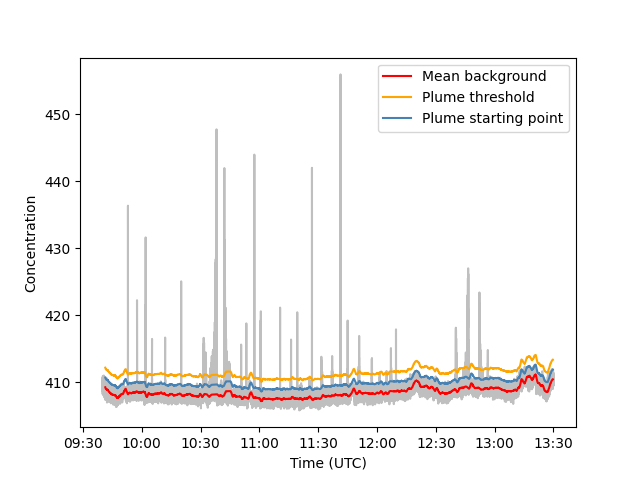
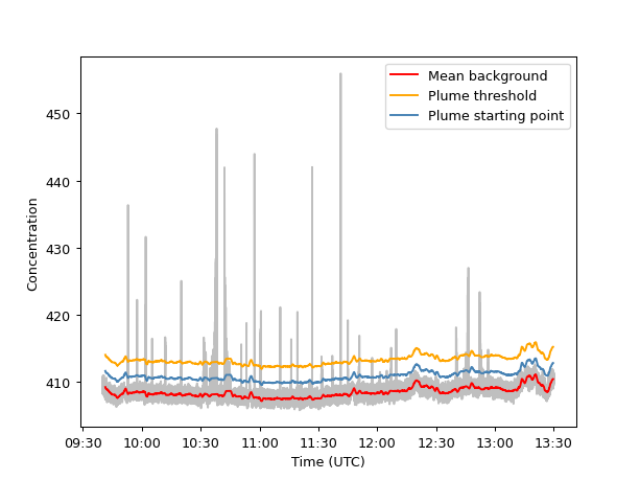
fix: corrected how the standard deviation is calculated (#12)
NB: this only affects the soon-to-be deprecated rolling window
background estimation method, and brings it into line with the R
implementation.

The wavelet method is generally considered the gold standard.

diff --git a/acruisepy/acruisepy/peakid.py b/acruisepy/acruisepy/peakid.py
@@ -101,11 +101,12 @@ def detect_plumes(
     df.index.rename("index", inplace=True)
 
     # Derive useful values for identifying plumes
+    residual_sd = (df["concentration"] - df["background"]).std()
     df["is_plume"] = df["concentration"] > (
-        df["background"] + plume_sd_threshold * df["background"].std()
+        df["background"] + plume_sd_threshold * residual_sd
     )
     df["is_plume_starting"] = df["concentration"] > (
-        df["background"] + plume_sd_starting * df["background"].std()
+        df["background"] + plume_sd_starting * residual_sd
     )
     df["plume_group_starting"] = (
         df["is_plume_starting"] != df["is_plume_starting"].shift()
@@ -247,6 +248,7 @@ def plot_background(
         None, plots a figure as a side-effect.
     """
     warn('The rolling window method is deprecated in favour of the wavelet detection. Please refer to the README.', DeprecationWarning, stacklevel=2)
+    sd_residual = (concentration - background).std()
     fig, ax = plt.subplots()
     myFmt = mdates.DateFormatter(date_fmt)
     ax.xaxis.set_major_formatter(myFmt)
@@ -255,12 +257,12 @@ def plot_background(
     ax.plot(concentration, color="gray", alpha=bg_alpha)
     ax.plot(background, color="red", label="Mean background")
     ax.plot(
-        background + plume_sd_threshold * background.std(),
+        background + plume_sd_threshold * sd_residual,
         color="orange",
         label="Plume threshold",
     )
     ax.plot(
-        background + plume_sd_starting * background.std(),
+        background + plume_sd_starting * sd_residual,
         color="steelblue",
         label="Plume starting point",
     )

diff --git a/acruisepy/README.md b/acruisepy/README.md
@@ -188,14 +188,15 @@ areas
 
 ```
    plume_id                   start                     end        area
-0         1 2021-10-04 09:52:56.700 2021-10-04 09:52:58.200   11.551411
+0         1 2021-10-04 09:52:56.700 2021-10-04 09:52:58.000   11.075509
 0         2 2021-10-04 09:57:34.900 2021-10-04 09:57:35.200    2.463899
-0         3 2021-10-04 10:01:56.200 2021-10-04 10:01:59.500   18.605635
-0         4 2021-10-04 10:05:13.700 2021-10-04 10:05:15.200    4.229698
-0         5 2021-10-04 10:11:53.900 2021-10-04 10:11:57.200    7.469866
-0         6 2021-10-04 10:20:06.100 2021-10-04 10:20:06.700    6.102518
-0         7 2021-10-04 10:31:23.300 2021-10-04 10:31:23.500    0.650395
-0         8 2021-10-04 10:31:31.800 2021-10-04 10:31:50.900   47.789589
-0         9 2021-10-04 10:32:17.800 2021-10-04 10:32:18.400    1.644525
+0         3 2021-10-04 10:01:56.200 2021-10-04 10:01:59.400   18.353021
+0         4 2021-10-04 10:05:14.900 2021-10-04 10:05:15.200    1.625227
+0         5 2021-10-04 10:11:53.900 2021-10-04 10:11:57.000    7.001877
+0         6 2021-10-04 10:20:06.100 2021-10-04 10:20:06.600    5.802470
+0         7 2021-10-04 10:31:32.100 2021-10-04 10:31:39.500   19.643071
+0         8 2021-10-04 10:31:46.900 2021-10-04 10:31:50.800   18.920395
+0         9 2021-10-04 10:32:26.700 2021-10-04 10:32:37.000   39.309272
+0        10 2021-10-04 10:35:40.900 2021-10-04 10:35:42.100    5.219257
 ...
 ```
